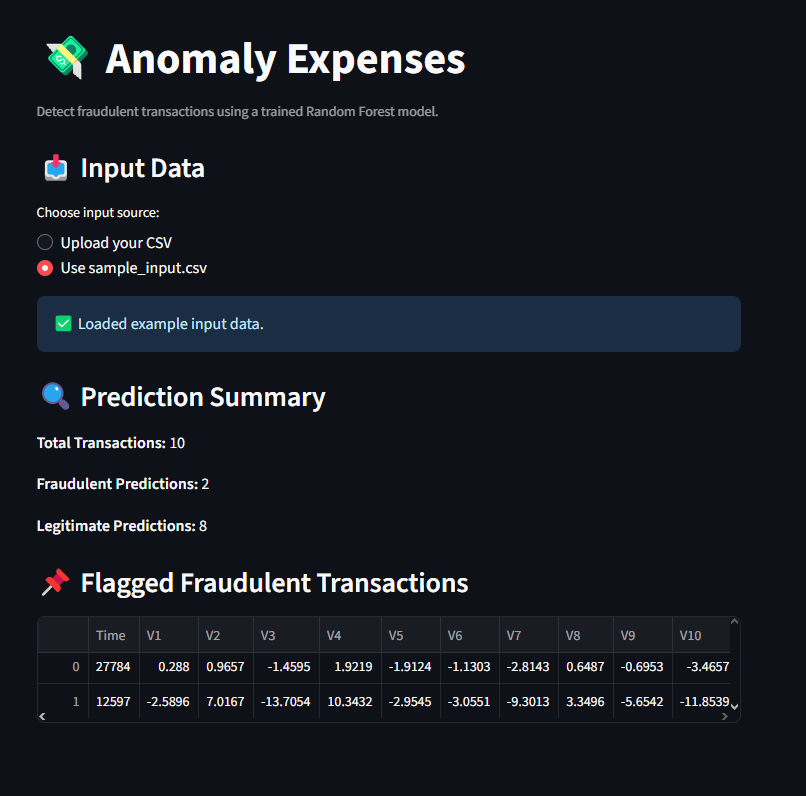
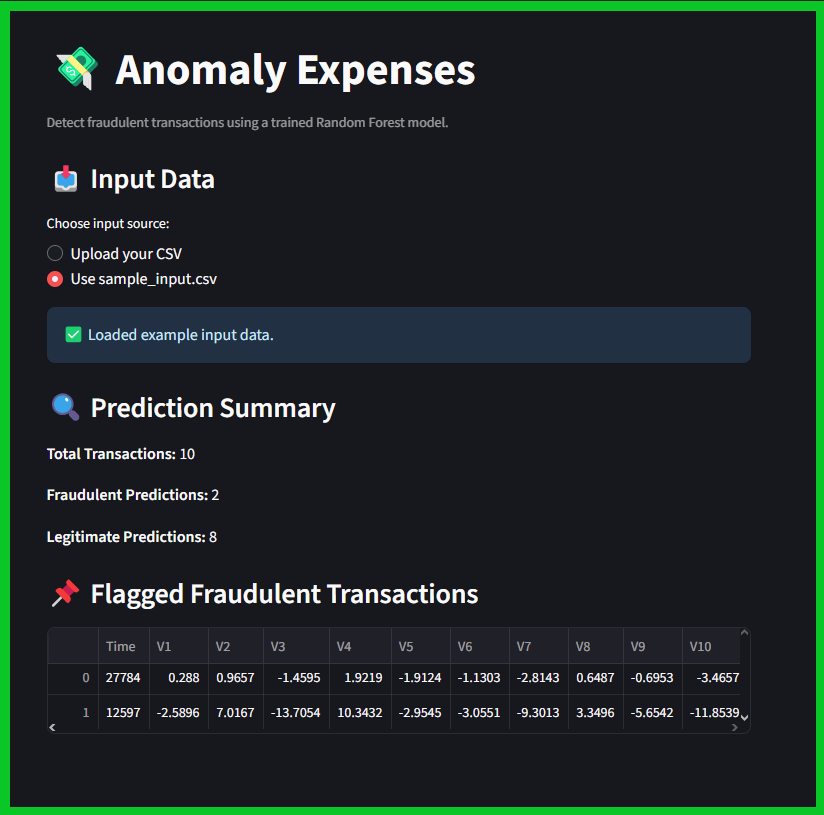
docs(assets): update demo screenshot with visible border for GitHub display

Changed region(s): [[0.0, 0.0, 1.0, 1.0], [0.0931, 0.7839, 0.9305, 0.9045], [0.3102, 0.7839, 0.3412, 0.8141]]

diff --git a/README.md b/README.md
@@ -52,10 +52,7 @@ Try the model interactively using the [public Streamlit app](https://anomaly-exp
 
 
 
-<p align="center">
-  <img src="assets/demo.png" alt="Demo Screenshot" width="700" style="border:2px solid #4CAF50; border-radius:8px;">
-</p>
-
+![Demo Screenshot](assets/demo.png)
 
 ---
 
